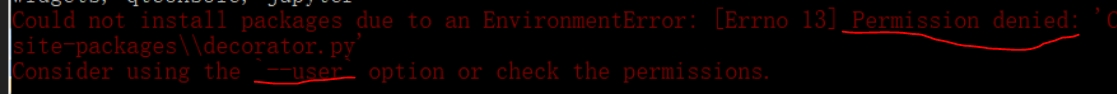
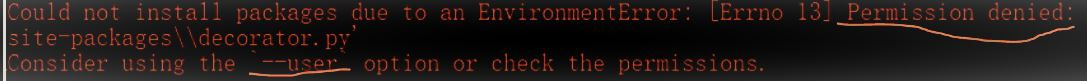
add pip安装时,提示Permision denied

diff --git a/guide/Problem_Solution.md b/guide/Problem_Solution.md
@@ -18,7 +18,12 @@
 
 ## pip安装时,提示Permision denied
 
+pip安装时,提示Permision denied
+
+![Permision denied](./img/pipuser.jpg)
+
 根据pip给出的提示加上--user
+
 
 
     >python -m pip install --user  <packagename>
